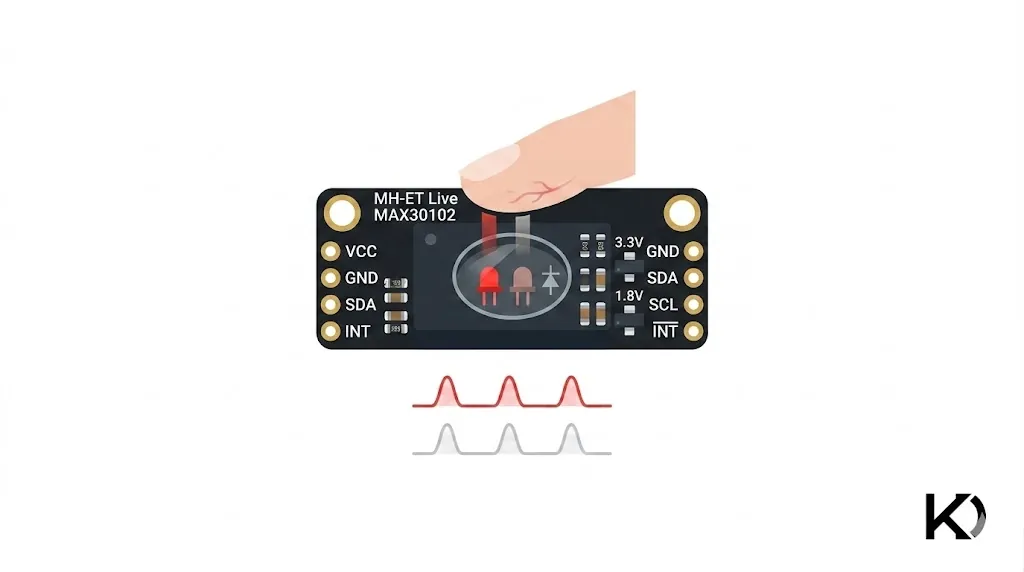
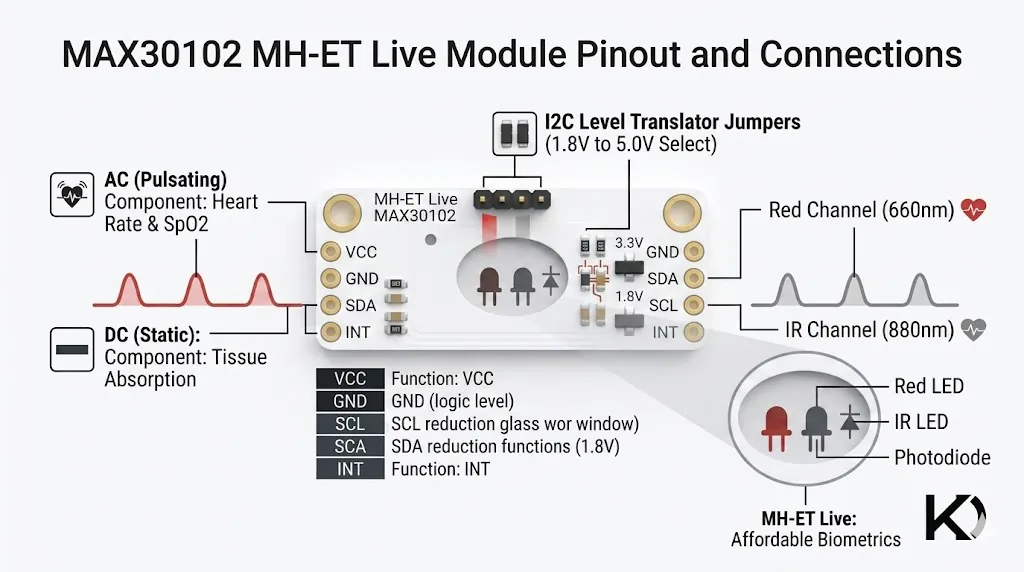
cmd vs powershell post

diff --git a/src/posts/CMD-vs-Powershell.md b/src/posts/CMD-vs-Powershell.md
@@ -1,0 +1,85 @@
+---
+title: "CMD vs. PowerShell: What’s the Real Difference?"
+date: "2026-05-21"
+excerpt: "Discover the architectural differences between Command Prompt and PowerShell, shifting from legacy text parsing to modern object-oriented automation."
+tags: ["windows", "powershell", "cmd", "sysadmin", "devops"]
+coverImage: "/images/blog/CMDvPowershell/image.webp"
+---
+If you have ever needed to fix a network issue, flush your DNS, or run a quick script in Windows, you have likely opened a text-based, black-or-blue terminal window. To the untrained eye, the traditional Command Prompt (CMD) and the modern PowerShell environment look remarkably similar. However, under the hood, they belong to entirely different technological eras.
+
+Understanding the core architectural differences between these two environments is essential for developers, system administrators, and tech enthusiasts alike. Let's break down how they work, how they process data, and when you should use each.
+
+## The Core Paradigm Shift: Text vs. Objects
+
+The absolute biggest technical shift between the two utilities lies in how they handle data. While both interfaces accept text inputs from your keyboard, the underlying engine treats data in profoundly distinct ways.
+
+> **The Core Rule:** Command Prompt is entirely string-based (text), whereas PowerShell is fully object-oriented, utilizing Microsoft’s powerful .NET framework.
+
+### 1. Command Prompt (CMD): The Text-Based Legacy
+
+CMD is a direct evolutionary descendant of MS-DOS, introduced back with Windows NT. Because it is strictly text-based, any command you run outputs raw blocks of characters. If you need to take the output of one command and use it in another (a process known as piping), you are forced to parse raw strings using complex string filtering mechanisms. It is rigid, limiting, and fragile.
+
+### 2. PowerShell: The Object-Oriented Framework
+
+Released in 2006 to address the limitations of CMD, PowerShell doesn't see output as random letters on a screen. Instead, it processes data as structured objects. When you ask PowerShell for a list of files, it creates a collection of distinct data entries, each carrying structural properties like Name, Length (size), and LastWriteTime. This allows you to filter, sort, or route data effortlessly without complex text slicing.
+
+---
+
+## Feature Head-to-Head Comparison
+
+
+| Feature            | Command Prompt (CMD)                              | PowerShell                                                    |
+| :----------------- | :------------------------------------------------ | :------------------------------------------------------------ |
+| **Origin & Age**   | Legacy evolution of MS-DOS (Windows NT era).      | Modern system automation framework (2006+).                   |
+| **Data Engine**    | Raw Text Strings.                                 | Structured .NET Objects.                                      |
+| **Command Syntax** | Rigid, discrete utilities (e.g., dir, ipconfig).  | Structured, uniform Verb-Noun cmdlets.                        |
+| **Scope & Access** | Basic file system navigation and local execution. | Deep system APIs, Registry, WMI, Active Directory, and Cloud. |
+
+---
+
+## Cmdlets and Built-in Aliases
+
+PowerShell introduces built-in commands known as cmdlets (pronounced command-lets). These cmdlets follow a highly predictable naming convention: a verb indicating the action, followed by a noun indicating the target. Examples include `Get-Service`, `Stop-Process`, or `New-Item`.
+
+To ease the transition for legacy users, Microsoft built aliases directly into PowerShell. If you type the old command `dir` or the Linux terminal command `ls` into PowerShell, it won't fail. PowerShell intelligently maps those inputs behind the scenes to run its native, object-driven cmdlet: `Get-ChildItem`.
+
+---
+
+## Scripting in Practice: A Practical Example
+
+To truly appreciate the operational differences, look at how both shells handle a simple task: finding all running processes using more than 100MB of memory and stopping them.
+
+### The Complex CMD Batch Approach
+
+In a traditional batch script, you have to parse text tables outputted by the task manager utility using token delimiters:
+
+```dos
+:: A complex and brittle approach using text parsing loops
+FOR /F "tokens=1,2,5 delims= " %%A IN ('tasklist') DO (
+    :: Complex string-to-integer conversion logic required here...
+)
+```
+
+### The Clean PowerShell Approach
+
+Because PowerShell handles objects, you can pipe data cleanly, applying a natural readable filter instantly:
+
+**PowerShell**
+
+```
+# Elements pass through the pipeline as native objects
+Get-Process | Where-Object {$_.WorkingSet -gt 100MB} | Stop-Process
+```
+
+## Which One Should You Choose?
+
+While both environments co-exist inside modern Windows operating systems, choosing the correct one depends entirely on your immediate objective:
+
+* **Choose Command Prompt (CMD)** if you are troubleshooting a legacy machine, working on basic networking diagnostic commands (like a rapid ping or tracert), or executing pre-existing .bat batch files.
+* **Choose PowerShell** for modern workflows, advanced scripting, infrastructure automation, DevOps tools, interacting with cloud containers, or performing deep system administration configurations.
+
+## The Verdict
+
+CMD remains a lightweight utility for quick tasks, but PowerShell is the definitive automation powerhouse. For anyone serious about managing modern Windows environments, mastering PowerShell is no longer optional - it is a core prerequisite.
+
+Kavishka Dulshan

diff --git a/src/posts/MAX30102-Sensor.md b/src/posts/MAX30102-Sensor.md
@@ -3,7 +3,7 @@ title: "Demystifying the MAX30102: How This Tiny Biometric Sensor Tracks Your Pu
 date: "2026-05-21"
 excerpt: "Discover the science behind the MAX30102 biometric sensor. Learn how photplethysmography works, bypass a common MH-ET Live hardware flaw, and stream real-time heart rate and SpO2 data using an ESP32."
 tags: ["embedded-systems", "esp32", "biometrics", "sensors", "arduino"]
-coverImage: "/images/blog/max30102/image.webp"
+coverImage: "/images/blog/max30102/0.webp"
 ---
 Ever wondered how smartwatches and fitness trackers read your pulse through your skin? It feels like magic, but it is actually a clever combination of optical physics, fluid dynamics, and embedded engineering.
 
@@ -44,6 +44,9 @@ $$
 > **Hardware Detail:** The AC component represents the dynamic, pulsating blood flow tied to your heartbeat. The DC component represents the static elements—your bones, skin, and steady venous blood that absorb a constant amount of light. Isolating the AC component allows the sensor to ignore everything else and look strictly at your moving arterial blood.
 
 The onboard circuitry automatically filters out external ambient room light, processes the signals through an internal 18-bit Analog-to-Digital Converter (ADC), and passes the clean digital data out over an $I^2C$ communication bus via standard Data (SDA) and Clock (SCL) lines.
+
+
+![Max30102](/images/blog/max30102/image.webp "max30102")
 
 ## Hardware Gotcha: The MH-ET Live Design Flaw
 
